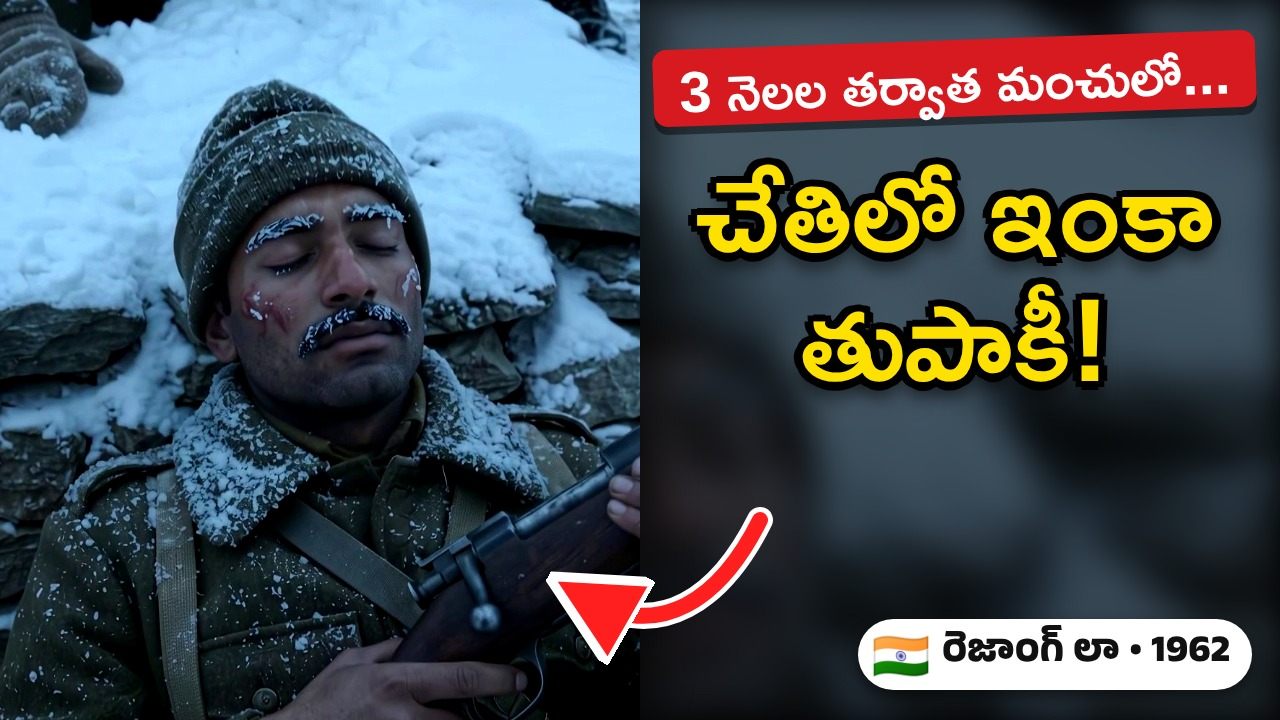
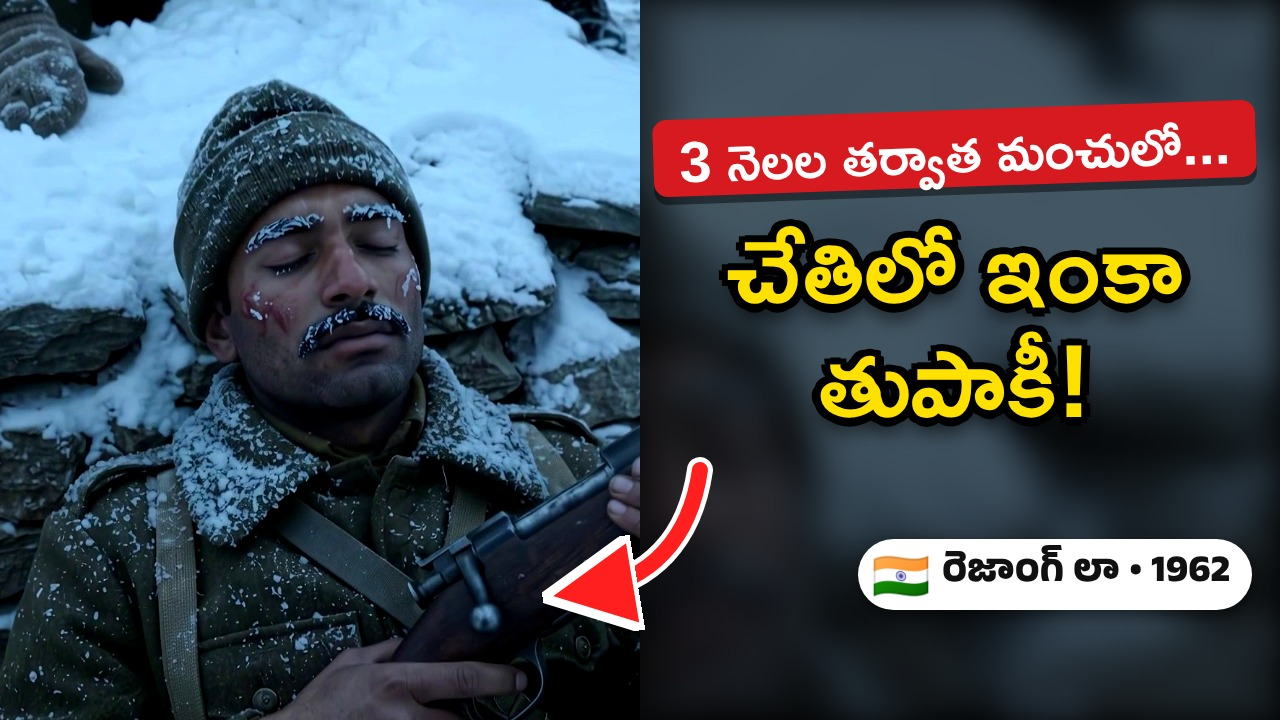
Rezang La v5: blast/rifle cold open, faster first 5s, bigger captions; thumbnails with 15-20% safe margins
Claude-Session: https://claude.ai/code/session_017x8KaNM3focoJEkh1kSqmn

Changed region(s): [[0.5, 0.0306, 1.0, 0.6111], [0.6562, 0.7333, 1.0, 0.9778], [0.4062, 0.6417, 0.625, 0.9167]]

diff --git a/vishayam-entante-shorts/source/rezangla/rl2.html b/vishayam-entante-shorts/source/rezangla/rl2.html
@@ -15,28 +15,28 @@ body{background:#222}
 svg{position:absolute;overflow:visible}
 /* vertical */
 #v{width:1080px;height:1920px}
-#v .bg{background-image:url(face.png);background-position:58% 70%;background-size:1500px auto}
-#v .txt{position:absolute;top:70px;left:30px;right:30px;text-align:center}
+#v .bg{background-image:url(face.png);background-position:58% 0%;background-size:1300px auto}
+#v .txt{position:absolute;top:300px;left:30px;right:30px;text-align:center}
 #v .l1{font-size:84px;padding:10px 34px 4px}
-#v .l2{font-size:178px;margin-top:30px}
-#v .badge{left:40px;bottom:60px;font-size:50px;padding:10px 28px 8px 16px}
+#v .l2{font-size:160px;margin-top:24px}
+#v .badge{left:40px;bottom:320px;font-size:50px;padding:10px 28px 8px 16px}
 #v .badge img{height:64px}
 /* horizontal */
 #h{width:1280px;height:720px}
 #h .bgblur{position:absolute;inset:0;background:url(face.png) center 40%/1400px auto;filter:blur(18px) brightness(.45) saturate(1.2)}
 #h .panel{position:absolute;left:0;top:0;bottom:0;width:640px;background:url(face.png) -60px -400px/780px auto;filter:saturate(1.35) contrast(1.18) brightness(1.08);box-shadow:20px 0 40px rgba(0,0,0,.6)}
-#h .txt{position:absolute;top:40px;left:650px;right:20px;text-align:center}
+#h .txt{position:absolute;top:110px;left:650px;right:20px;text-align:center}
 #h .l1{font-size:58px;padding:8px 26px 2px}
-#h .l2{font-size:118px;margin-top:26px}
-#h .badge{right:28px;bottom:30px;font-size:38px;padding:8px 22px 6px 12px}
+#h .l2{font-size:104px;margin-top:20px}
+#h .badge{right:28px;bottom:110px;font-size:38px;padding:8px 22px 6px 12px}
 #h .badge img{height:50px}
 </style></head><body>
 <div id="v" class="t"><div class="bg"></div><div class="vig"></div>
   <div class="txt"><div class="l1">3 నెలల తర్వాత మంచులో...</div><div class="l2">చేతిలో ఇంకా<br>తుపాకీ!</div></div>
   <svg width="1080" height="1920" style="left:0;top:0">
     <defs><marker id="ah" markerWidth="6" markerHeight="6" refX="3" refY="3" orient="auto"><path d="M0,0 L6,3 L0,6 z" fill="#ff1f1f" stroke="#fff" stroke-width=".6"/></marker></defs>
-    <path d="M 880 760 C 1000 960, 1010 1180, 900 1330" fill="none" stroke="#fff" stroke-width="34" stroke-linecap="round"/>
-    <path d="M 880 760 C 1000 960, 1010 1180, 900 1330" fill="none" stroke="#ff1f1f" stroke-width="22" stroke-linecap="round" marker-end="url(#ah)"/>
+    <path d="M 990 1180 C 1050 1290, 1020 1400, 930 1470" fill="none" stroke="#fff" stroke-width="34" stroke-linecap="round"/>
+    <path d="M 990 1180 C 1050 1290, 1020 1400, 930 1470" fill="none" stroke="#ff1f1f" stroke-width="22" stroke-linecap="round" marker-end="url(#ah)"/>
   </svg>
   <div class="badge"><img src="flag_emoji.png">రెజాంగ్ లా • 1962</div>
 </div>
@@ -45,8 +45,8 @@ svg{position:absolute;overflow:visible}
   <div class="txt"><div class="l1">3 నెలల తర్వాత మంచులో...</div><div class="l2">చేతిలో ఇంకా<br>తుపాకీ!</div></div>
   <svg width="1280" height="720" style="left:0;top:0">
     <defs><marker id="ah2" markerWidth="6" markerHeight="6" refX="3" refY="3" orient="auto"><path d="M0,0 L6,3 L0,6 z" fill="#ff1f1f" stroke="#fff" stroke-width=".6"/></marker></defs>
-    <path d="M 760 520 C 720 600, 660 640, 590 600" fill="none" stroke="#fff" stroke-width="26" stroke-linecap="round"/>
-    <path d="M 760 520 C 720 600, 660 640, 590 600" fill="none" stroke="#ff1f1f" stroke-width="16" stroke-linecap="round" marker-end="url(#ah2)"/>
+    <path d="M 700 470 C 690 540, 650 580, 590 590" fill="none" stroke="#fff" stroke-width="26" stroke-linecap="round"/>
+    <path d="M 700 470 C 690 540, 650 580, 590 590" fill="none" stroke="#ff1f1f" stroke-width="16" stroke-linecap="round" marker-end="url(#ah2)"/>
   </svg>
   <div class="badge"><img src="flag_emoji.png">రెజాంగ్ లా • 1962</div>
 </div>
